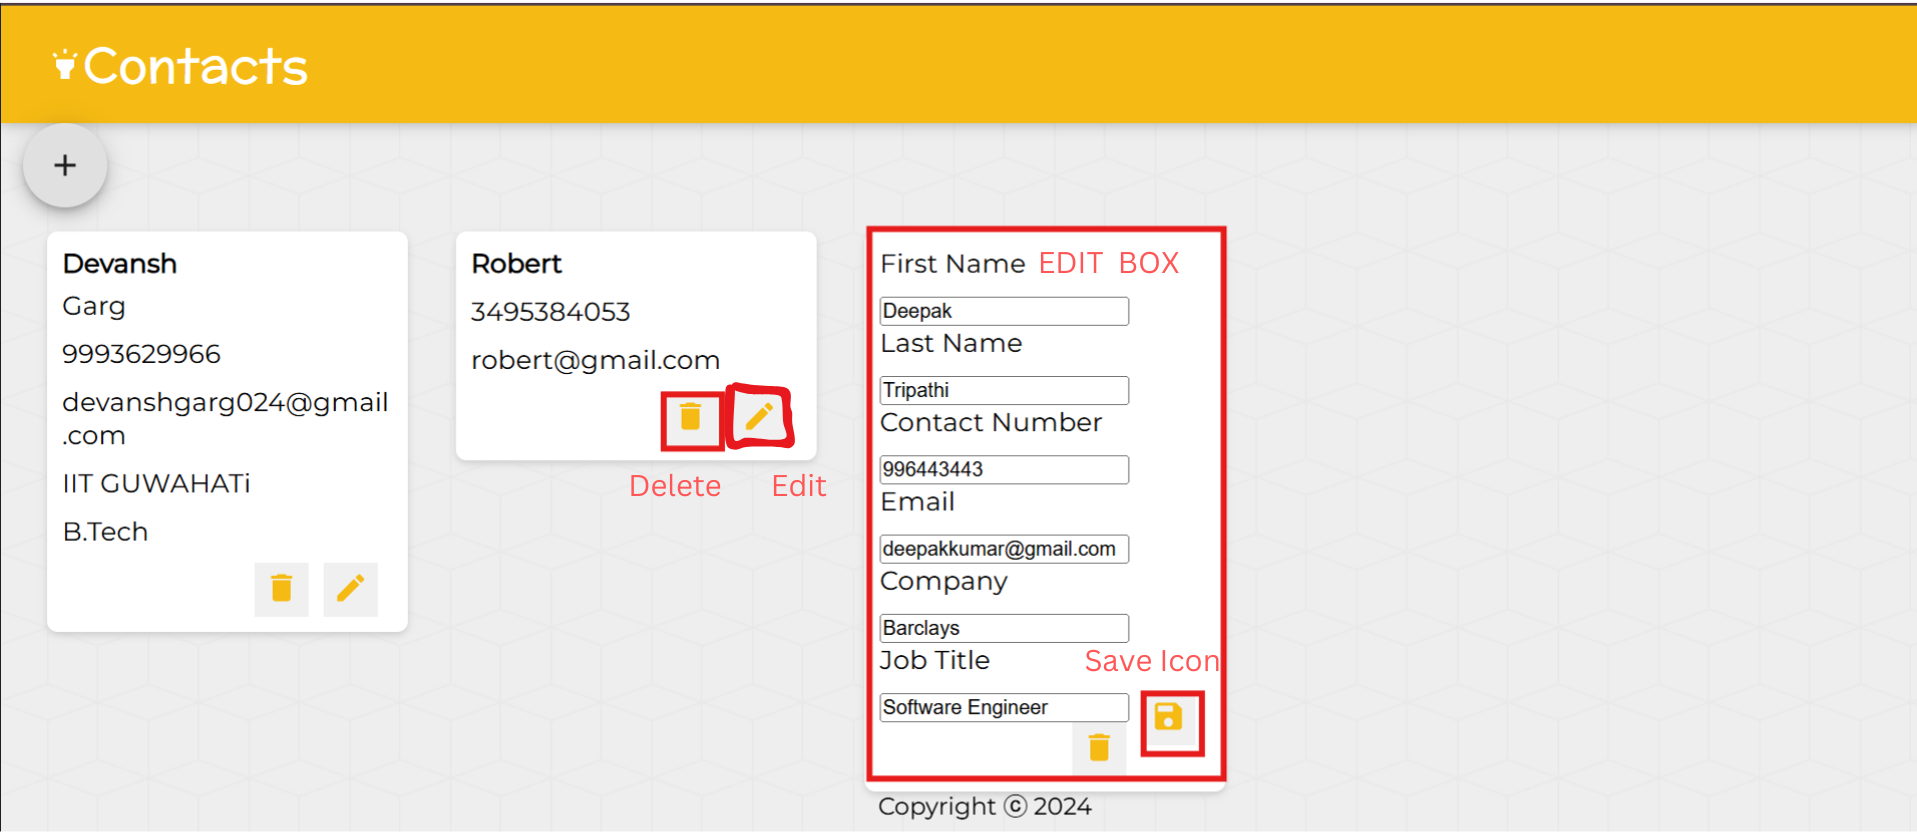
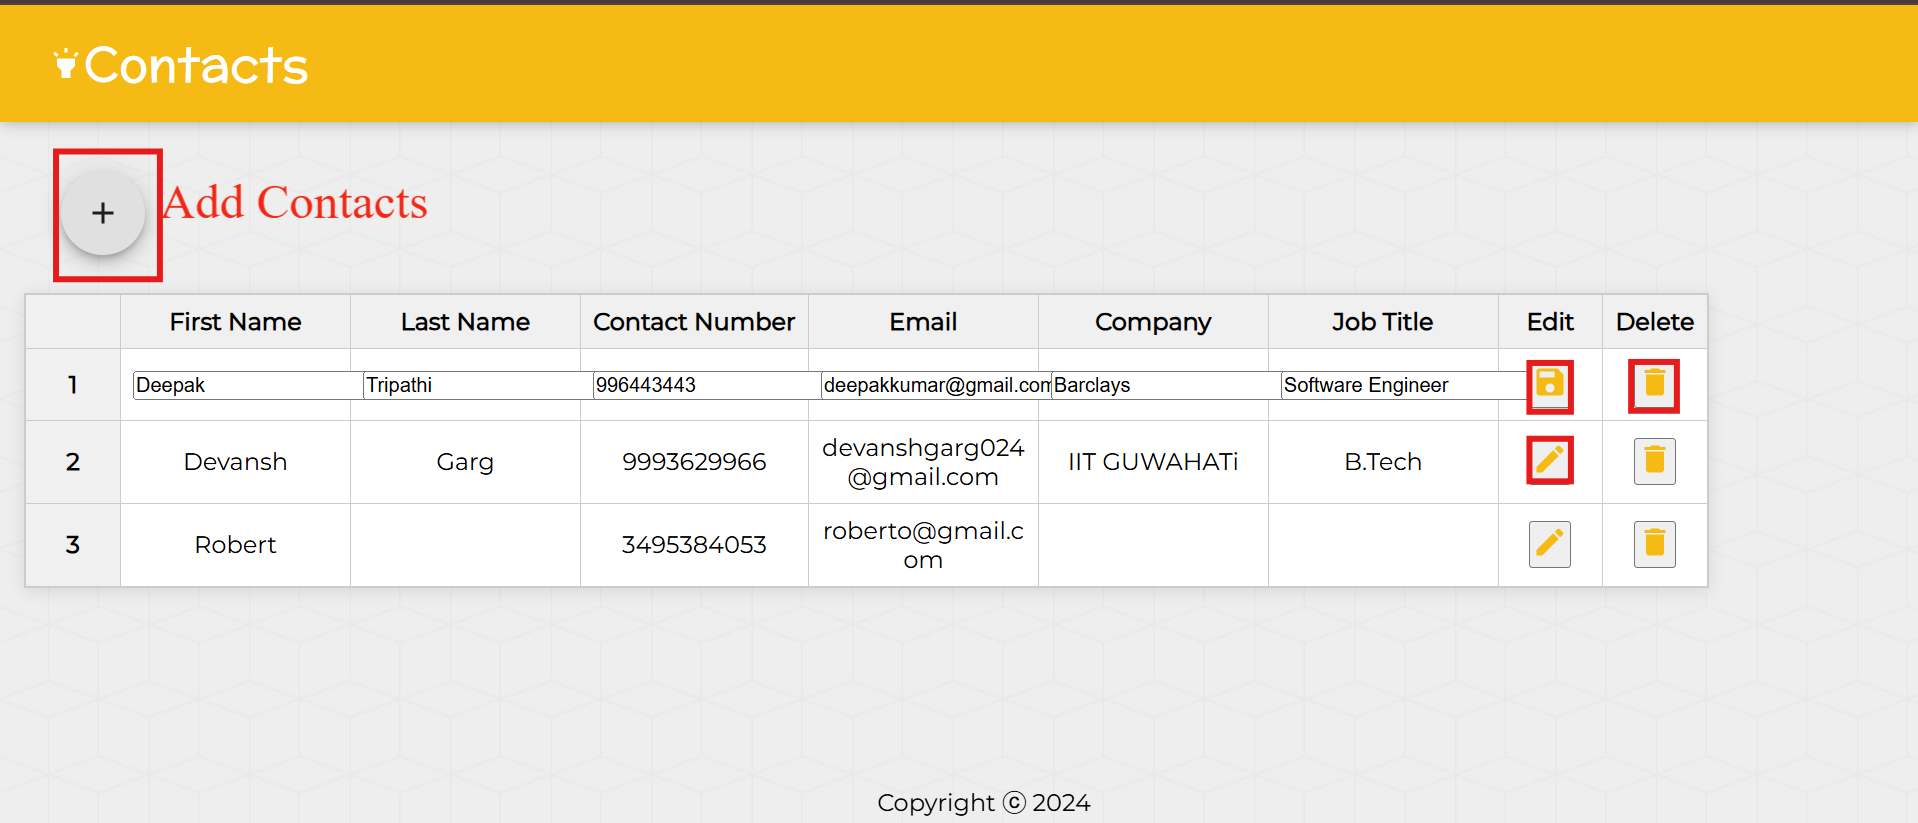
Updated UI. Now the data is shown in the format of a table.

diff --git a/frontend/src/components/Note.jsx b/frontend/src/components/Note.jsx
@@ -63,98 +63,104 @@ function Note(props) {
   }, []);
 
   return (
-    <div className="note" ref={noteRef}>
-      {!isEditable && (
-        <div>
-          <h1>{props.first_name}</h1>
-          <p>{props.last_name}</p>
-          <p>{props.contact_number}</p>
-          <p>{props.email}</p>
-          <p>{props.company}</p>
-          <p>{props.job_title}</p>
-        </div>
+    <tbody className="note" ref={noteRef}>
+
+    {!isEditable && (
+        <tr >
+                    <th>{props.sno}</th>
+                    <td >{props.first_name}</td>
+                    <td>{props.last_name}</td>
+                    <td>{props.contact_number}</td>
+                    <td>{props.email}</td>
+                    <td>{props.company}</td>
+                    <td>{props.job_title}</td>
+                    <td >
+                    <button onClick={handleEdit}>
+            <EditIcon />
+          </button></td>
+          <td>
+                    <button onClick={handleDelete}>
+                <DeleteIcon />
+               </button>
+                    </td>
+        </tr>
       )}
 
       {isEditable && (
-        <div>
-          <p>First Name</p>
-          <input
+                  <tr>
+                    <th>{props.sno}</th>
+                    <td>
+                    <input
             type="text"
             onChange={handleChange}
             value={note.first_name}
             name="first_name"
             placeholder="First Name"
-          />
-
-          <p>Last Name</p>
-          <input
+            />
+                    </td>
+                    <td>
+                    <input
             type="text"
             onChange={handleChange}
             value={note.last_name}
             name="last_name"
             placeholder="Last Name"
-          />
-
-          <p>Contact Number</p>
-          <input
+            />
+                    </td>
+                    <td>
+                    <input
             type="text"
             onChange={handleChange}
             value={note.contact_number}
             name="contact_number"
             placeholder="Contact Number"
-          />
-
-          <p>Email</p>
-          <input
+            />
+                    </td>
+                    <td>
+                    <input
             type="email"
             onChange={handleChange}
             value={note.email}
             name="email"
             placeholder="Email"
-          />
-
-          <p>Company</p>
+            />
+                    </td>
+                    <td>
+                      
           <input
             type="text"
             onChange={handleChange}
             value={note.company}
             name="company"
             placeholder="Company"
-          />
-
-          <p>Job Title</p>
+            />
+                    </td>
+                    <td>
+                      
           <input
             type="text"
             onChange={handleChange}
             value={note.job_title}
             name="job_title"
             placeholder="Job Title"
-          />
-
-          <button onClick={handleSave}>
+            />
+                    </td>
+                    <td  >
+                    <button onClick={handleSave}>
             <SaveIcon />
           </button>
-          <button onClick={handleDelete}>
-      <DeleteIcon />
-    </button>
-        </div>
+                    </td>
+                    <td>
+                    <button onClick={handleDelete}>
+                <DeleteIcon />
+               </button>
+                    </td>
+                </tr>
       )}
-      {
-        !isEditable&&(
-            <div>
 
-      <button onClick={handleEdit}>
-        <EditIcon />
-      </button>
-      <button onClick={handleDelete}>
-      <DeleteIcon />
-    </button>
-            </div>
-        )
-      }
+</tbody>
 
-
-    </div>
+  
   );
 }
 

diff --git a/frontend/src/styles.css b/frontend/src/styles.css
@@ -19,6 +19,7 @@ header {
   margin: auto -16px;
   padding: 16px 32px;
   box-shadow: 0 0 10px 0 rgba(0, 0, 0, 0.3);
+  margin-bottom: 8px;
 }
 
 header h1 {
@@ -42,36 +43,18 @@ footer p {
   margin: 0;
 }
 
-.note {
-  background: #fff;
-  border-radius: 7px;
-  box-shadow: 0 2px 5px #ccc;
-  padding: 10px;
-  width: 240px;
-  margin: 16px;
-  float: left;
-}
-
 .note h1 {
   font-size: 1.1em;
-  margin-bottom: 6px;
 }
 
 .note p {
   font-size: 1.1em;
-  margin-bottom: 10px;
   white-space: pre-wrap;
   word-wrap: break-word;
 }
 
 .note button {
-  position: relative;
-  float: right;
-  margin-right: 10px;
   color: #f5ba13;
-  border: none;
-  width: 36px;
-  height: 36px;
   cursor: pointer;
   outline: none;
 }
@@ -176,3 +159,61 @@ textarea[rows="3"] {
 textarea[rows="1"] {
   height: 40px;
 }
+
+
+.excel-table {
+  border: 1px solid #ccc;
+  overflow: hidden;
+  box-shadow: 0 2px 10px rgba(0, 0, 0, 0.1);
+  width: 90%; /* Adjust as needed for the table's overall size */
+  margin-bottom: 50px;
+
+}
+.addButton {
+padding: 2%;
+}
+table {
+  border-collapse: collapse;
+  width: 100%;
+  table-layout: fixed; /* Ensures column widths are fixed */
+}
+
+colgroup col {
+  border: 1px solid #ccc;
+}
+
+th, td {
+  border: 1px solid #ccc;
+  padding: 8px;
+  text-align: center;
+  background-color: #fff;
+  outline: none;
+  word-wrap: break-word;  /* Break words if they're too long */
+  white-space: normal;    /* Allow text to wrap within the cell */
+}
+
+th {
+  background-color: #f0f0f0;
+  font-weight: bold;
+}
+
+.excel-table col.col-1{
+  width: 5%; /* Divide 100% evenly for 9 columns */
+}
+.excel-table col.col-4{
+  width: 12%; 
+}
+.excel-table col.col-2,
+.excel-table col.col-3,
+.excel-table col.col-5,
+.excel-table col.col-6,
+.excel-table col.col-7{
+  width: 12.1%; /* Divide 100% evenly for 9 columns */
+
+}
+.excel-table col.col-8,
+.excel-table col.col-9 {
+  width: 5.5%; /* Divide 100% evenly for 9 columns */
+}
+
+

diff --git a/frontend/src/components/App.jsx b/frontend/src/components/App.jsx
@@ -59,15 +59,44 @@ function App() {
       })
       .catch((error) => console.error("Error editing:", error));  // Adjust error message to match function purpose
   }
+  let num=Number(0);
   
   return (
     <div>
       <Header />
       <CreateArea onAdd={addNote} />
-      {notes.map((noteItem, index) => {
+      <div className="excel-table">
+        <table>
+        <colgroup>
+        <col className="col-1" />
+      <col className="col-2" />
+      <col className="col-3" />
+      <col className="col-4" />
+      <col className="col-5" />
+      <col className="col-6" />
+      <col className="col-7" />
+      <col className="col-8" />
+      <col className="col-9" />
+            </colgroup>
+            <thead>
+                <tr>
+                    <th></th>
+                    <th>First Name</th>
+                    <th>Last Name</th>
+                    <th>Contact Number</th>
+                    <th>Email</th>
+                    <th>Company</th>
+                    <th>Job Title</th>
+                    <th>Edit</th>
+                    <th>Delete</th>
+                </tr>
+            </thead>
+            {notes.map((noteItem, index) => {
+              num++;
         return (
           <Note
             key={index}
+            sno={num}
             id={noteItem.key}
             first_name={noteItem.first_name}
             last_name={noteItem.last_name}
@@ -80,6 +109,10 @@ function App() {
           />
         );
       })}
+
+        </table>
+    </div>
+
       <Footer />
     </div>
   );

diff --git a/frontend/src/components/CreateArea.jsx b/frontend/src/components/CreateArea.jsx
@@ -1,4 +1,4 @@
-import React, { useState,useEffect,useRef } from "react";
+import React, { useState } from "react";
 import AddIcon from "@material-ui/icons/Add";
 import Fab from "@material-ui/core/Fab";
 import Zoom from "@material-ui/core/Zoom";
@@ -32,7 +32,7 @@ function CreateArea(props) {
         [name]: value,
       };
     });
-    if(note.first_name.length==0||note.contact_number.length==0){
+    if(note.first_name.length===0||note.contact_number.length===0){
       setError1("*First_name or Ph. Number can not be empty!")
 
     }
@@ -78,11 +78,15 @@ function CreateArea(props) {
   }
   return (
     <div >
-        <Zoom in={!isExpanded}>
-          <Fab onClick={expand}>
-            <AddIcon />
-          </Fab>
-        </Zoom>
+      {!isExpanded &&
+      <div className ="addButton">
+      <Zoom  in={!isExpanded}>
+        <Fab onClick={expand}>
+          <AddIcon />
+        </Fab>
+      </Zoom>
+    </div>}
+      
         {isExpanded && (
           <div >
             <p style={{ color }}>{error1}</p>
